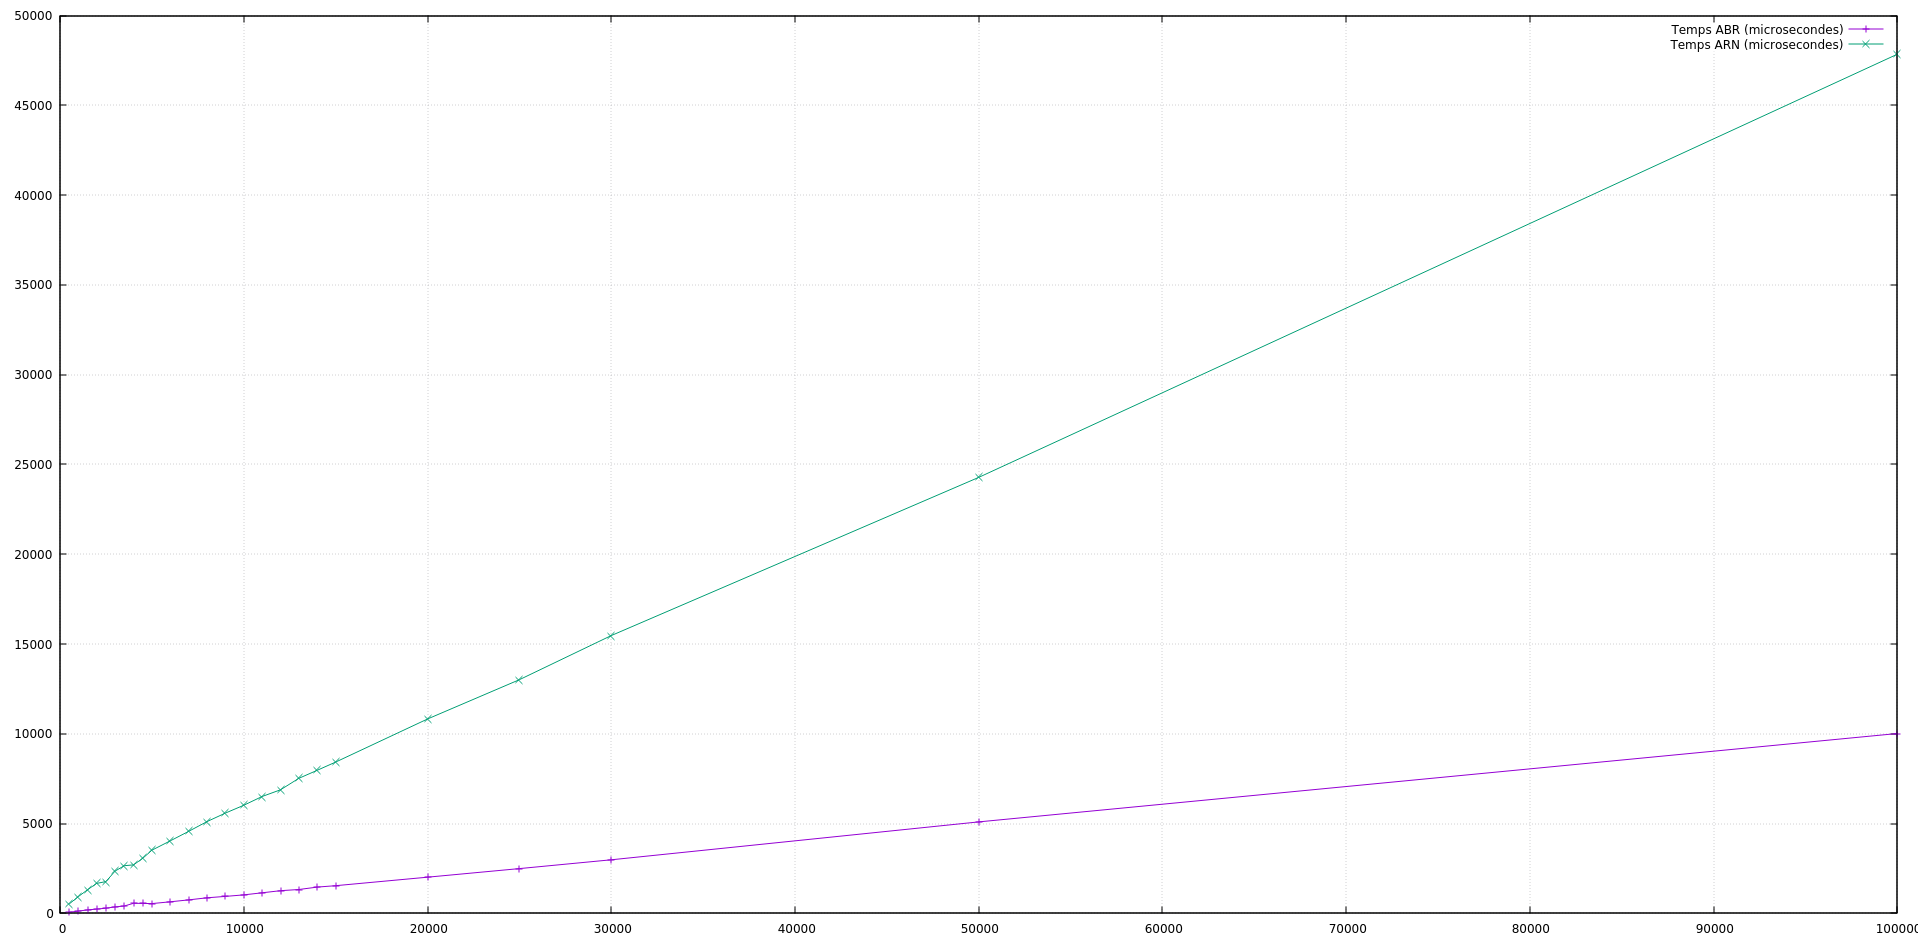
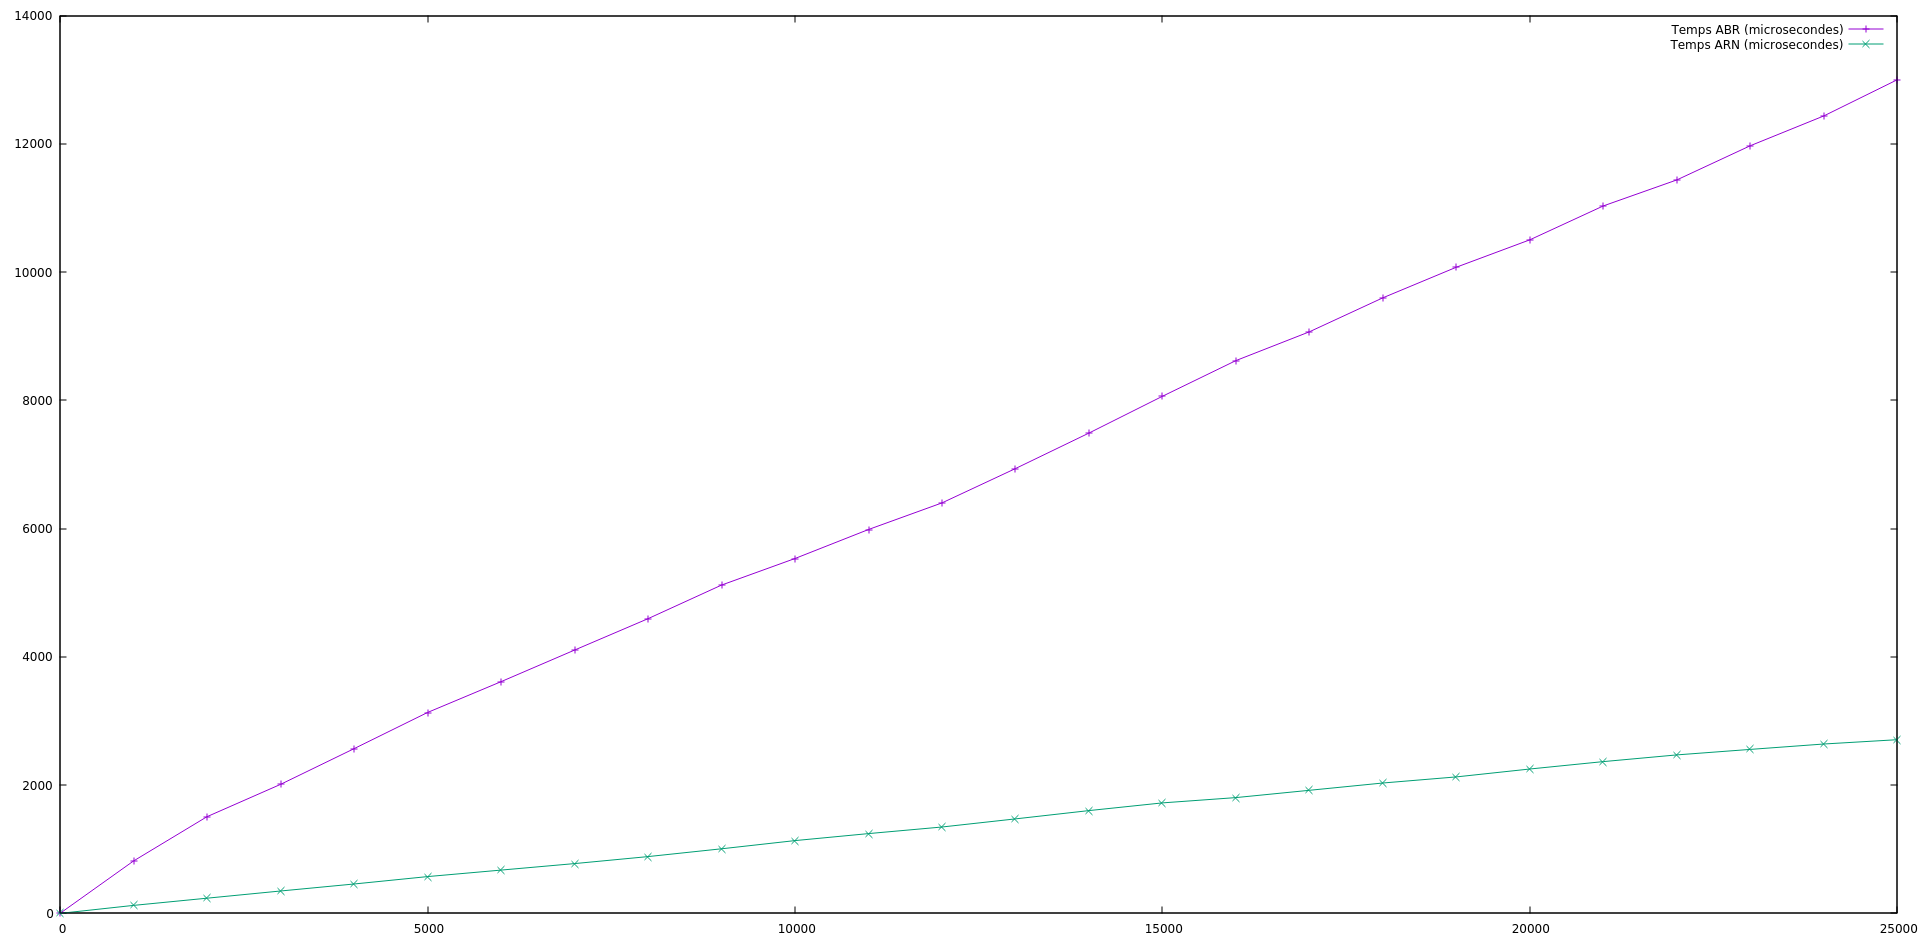
automatisation performances

diff --git a/main.cpp b/main.cpp
@@ -4,50 +4,68 @@
 #include <cstdlib>
 #include <chrono>
 #include <cstdio>
+#include <fstream>
 
 using namespace std;
 
 int main(){
+    ofstream flux("./perfs_insertion.txt");
+    if(flux){
+        flux << "# \"nb elmt\" \"Temps ABR (microsecondes)\" \"Temps ARN (microsecondes)\"" << endl;
+        int nbC = 100;               //nombre de collection
+        int nbEMin = 0;
+        int nbEMax = 25000;         //nombre d'element
 
-    int nbC = 10;          //nombre de collection
-    int nbE = 100;         //nombre d'element
+        for(int i=nbEMin ; i<nbEMax+100 ; i+=1000){
+            flux << i << " ";
+                chrono::time_point<chrono::system_clock> startARN, endARN;
+                startARN = chrono::system_clock::now();
+                for(int j=0; j<nbC ; j++){
+                    ARN arbreRougeNoir;
+                    for(int k=0 ; k<i ; k++){
+                        int random = rand()%1000;
+                        arbreRougeNoir.insertion(random);
+                    }
+                    //arbreRougeNoir.affichage();
+                }
+                endARN = chrono::system_clock::now();
+                int elapsedTimeARN = chrono::duration_cast<chrono::microseconds>(endARN-startARN).count(); 
+                float moyenneARN = elapsedTimeARN/nbC;
+                flux << moyenneARN << " ";
+                cout << "[ARN] Temps moyen pour une insertion de " << i << " elements : " << moyenneARN << " microsecondes." << endl;
 
-    chrono::time_point<chrono::system_clock> startARN, endARN;
-    startARN = chrono::system_clock::now();
-    for(int i=0; i<nbC ; i++){
-        ARN arbreRougeNoir;
-        for(int j=0 ; j<nbE ; j++){
-            int random = rand()%1000;
-            arbreRougeNoir.insertion(random);
-        }
-        //arbreRougeNoir.affichage();
+
+                chrono::time_point<chrono::system_clock> startABR, endABR;
+                startABR = chrono::system_clock::now();
+                for(int j=0; j<nbC ; j++){
+                    ABR arbreBinaire;
+                    for(int k=0 ; k<i ; k++){
+                        int random = rand()%1000;
+                        arbreBinaire.insertion(random);
+                    }
+                    //arbreBinaire.affichage();
+                }
+                endABR = chrono::system_clock::now();
+                int elapsedTimeABR = chrono::duration_cast<chrono::microseconds>(endABR-startABR).count(); 
+                float moyenneABR = elapsedTimeABR/nbC;
+                flux << moyenneABR << endl;
+                cout << "[ABR] Temps moyen pour une insertion de " << i << " elements : " << moyenneABR << " microsecondes." << endl;
+                cout << "--------------------------------------------------------------------------------------------------" << endl;
+            }
+
+
+
+
+
+
+
+
+
     }
-    endARN = chrono::system_clock::now();
-    int elapsedTimeARN = chrono::duration_cast<chrono::microseconds>(endARN-startARN).count(); 
-    float moyenneARN = elapsedTimeARN/nbC;
-    cout << "[ARN] Temps moyen pour une insertion de " << nbE << " elements : " << moyenneARN << " microsecondes." << endl;
-
-
-    chrono::time_point<chrono::system_clock> startABR, endABR;
-    startABR = chrono::system_clock::now();
-    for(int i=0; i<nbC ; i++){
-        ABR arbreBinaire;
-        for(int j=0 ; j<nbE ; j++){
-            int random = rand()%1000;
-            arbreBinaire.insertion(random);
-        }
+    else{
+        cout << "ERREUR : impossible d'ouvrir le fichier." << endl;
     }
-    endABR = chrono::system_clock::now();
-    int elapsedTimeABR = chrono::duration_cast<chrono::microseconds>(endABR-startABR).count(); 
-    float moyenneABR = elapsedTimeABR/nbC;
-    cout << "[ABR] Temps moyen pour une insertion de " << nbE << " elements : " << moyenneABR << " microsecondes." << endl;
 
-    ARN arbre;
-    arbre.insertion(10);
-    arbre.insertion(40);
-    arbre.insertion(60);
-    arbre.insertion(20);
-    arbre.affichage();
-
+    
     return 0;
 }
